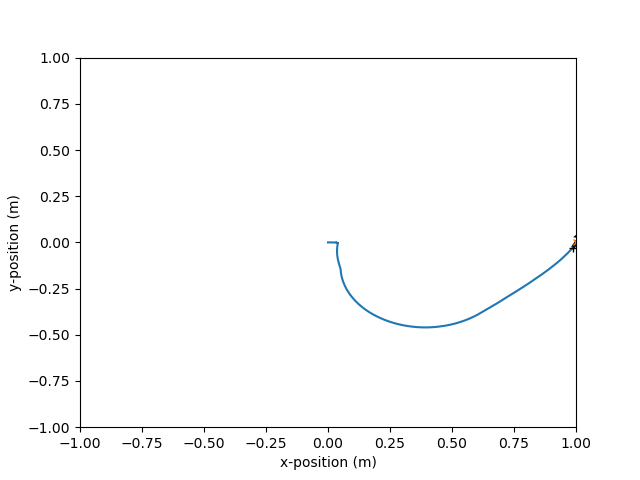
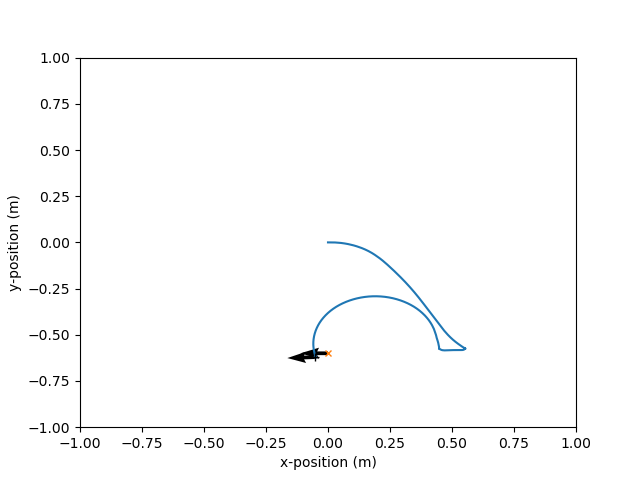
Updated code

diff --git a/Ultrasonic.py b/Ultrasonic.py
@@ -2,9 +2,14 @@
 from gpiozero import DistanceSensor
 
 class UltrasonicSensor:
-    def __init__(self, fe=9, ft=10, re=26, rt=16, le=1, lt=7, bre=0, brt=0, ble=0, blt=0, threshold=20):
-        self.sensor_front = DistanceSensor(echo=fe,trigger=ft)
-        print("front initialised")
+    # def __init__(self, fe=9, ft=10, re=26, rt=16, le=1, lt=7, bre=0, brt=0, ble=0, blt=0, thresholdf=20, thresholdlr=15):
+    def __init__(self, f1e=9, f1t=10, f2e=0, f2t=0, re=26, rt=16, le=1, lt=7, bre=0, brt=0, ble=0, blt=0, thresholdf=20, thresholdlr=15):
+        self.sensor_front1 = DistanceSensor(echo=f1e,trigger=f2t)
+        print("front1 initialised")
+        self.sensor_front2 = DistanceSensor(echo=f1e,trigger=f2t)
+        print("front2 initialised")
+        # self.sensor_front = DistanceSensor(echo=fe,trigger=ft)
+        # print("front initialised")
         self.sensor_fright = DistanceSensor(echo=re, trigger=rt)
         print("right initialised")
         self.sensor_fleft = DistanceSensor(echo=le, trigger=lt)
@@ -12,7 +17,8 @@ class UltrasonicSensor:
         # self.sensor_right = DistanceSensor(bre, brt)
         # self.sensor_left = DistanceSensor(ble, blt)
         # Distance threshold
-        self.threshold = threshold
+        self.thresholdf = thresholdf
+        self.thresholdlr = thresholdlr
         # # Counter to stop noise readings
         # self.counter = counter
         # Tentacle planner function
@@ -20,15 +26,20 @@ class UltrasonicSensor:
         # self.categorized_tentacles = self.tentacle_planner.categorize_tentacles()
         
     # Inside threshold
-    def inside(self, distance): 
-        return distance < self.threshold
+    def inside(self, distance, threshold): 
+        return distance < threshold
     
     # Outside threshold
-    def outside(self, distance):
-        return distance > self.threshold
+    def outside(self, distance, threshold):
+        return distance > threshold
 
-    def front_distance(self):
-        return self.sensor_front.distance * 100
+    # def front_distance(self):
+    #     return self.sensor_front.distance * 100
+    def front1_distance(self):
+        return self.sensor_front1.distance * 100
+    
+    def front2_distance(self):
+        return self.sensor_front2.distance * 100
 
     def fright_distance(self):
         return self.sensor_fright.distance * 100
@@ -43,10 +54,15 @@ class UltrasonicSensor:
         return self.sensor_left.distance * 100
     
     # detect if tentacles are chill, therefore no obstacles, add into array of costs
+
+    def both_front(self, front_dist1, front_dist2, threshold):
+        return (self.outside(front_dist1, threshold) or self.outside(front_dist2, threshold))
     
     def detect_obstacle(self, categorized_tentacles):
         """Returns new required trajectory in order to avoid obstacle as per sensor readings"""
-        front_dist = self.front_distance()
+        front1_dist = self.front1_distance()
+        front2_dist = self.front2_distance()
+        # front_dist = self.front_distance()
         fright_dist = self.fright_distance()
         fleft_dist = self.fleft_distance()
         
@@ -64,36 +80,73 @@ class UltrasonicSensor:
 
         # If distances remain consistently beyond the threshold over several checks
         # if self.counter >= 5:
-        if self.outside(front_dist) and self.outside(fleft_dist) and self.outside(fright_dist):
+        # if self.outside(front_dist, self.thresholdf) and self.outside(fleft_dist, self.thresholdlr) and self.outside(fright_dist, self.thresholdlr):
+        #     # Include all tentacle paths
+        #     print('all')
+        #     avail.extend(categorized_tentacles["left_turning"])
+        #     avail.extend(categorized_tentacles["straight"])
+        #     avail.extend(categorized_tentacles["right_turning"])
+        # elif self.outside(front_dist, self.thresholdf) and self.outside(fleft_dist, self.thresholdlr):
+        #     # Include front and left paths
+        #     print('f+l')
+        #     avail.extend(categorized_tentacles["left_turning"])
+        #     # avail.extend(categorized_tentacles["straight"])
+        # elif self.outside(front_dist, self.thresholdf) and self.outside(fright_dist, self.thresholdlr):
+        #     # Include front and right paths
+        #     print('f+r')
+        #     # avail.extend(categorized_tentacles["straight"])
+        #     avail.extend(categorized_tentacles["right_turning"])
+        # elif self.outside(fleft_dist, self.thresholdlr) and self.outside(fright_dist, self.thresholdlr):
+        #     # Include left and right paths
+        #     print('r+l')
+        #     avail.extend(categorized_tentacles["left_turning"])
+        #     # avail.extend(categorized_tentacles["right_turning"])
+        # elif self.outside(front_dist, self.thresholdf):
+        #     print('f')
+        #     # Include front path
+        #     avail.extend(categorized_tentacles["straight"])
+        # elif self.outside(fleft_dist, self.thresholdlr):
+        #     print('l')
+        #     # Include left path
+        #     avail.extend(categorized_tentacles["left_turning"])
+        # elif self.outside(fright_dist, self.thresholdlr):
+        #     print('r')
+        #     # Include right path
+        #     avail.extend(categorized_tentacles["right_turning"])
+        # else:
+        #     # No clear path, return None
+        #     return None
+
+        if self.both_front(front1_dist, front2_dist, self.thresholdf) and self.outside(fleft_dist, self.thresholdlr) and self.outside(fright_dist, self.thresholdlr):
             # Include all tentacle paths
             print('all')
             avail.extend(categorized_tentacles["left_turning"])
             avail.extend(categorized_tentacles["straight"])
             avail.extend(categorized_tentacles["right_turning"])
-        elif self.outside(front_dist) and self.outside(fleft_dist):
+        elif self.both_front(front1_dist, front2_dist, self.thresholdf) and self.outside(fleft_dist, self.thresholdlr):
             # Include front and left paths
             print('f+l')
             avail.extend(categorized_tentacles["left_turning"])
             # avail.extend(categorized_tentacles["straight"])
-        elif self.outside(front_dist) and self.outside(fright_dist):
+        elif self.both_front(front1_dist, front2_dist, self.thresholdf) and self.outside(fright_dist, self.thresholdlr):
             # Include front and right paths
             print('f+r')
             # avail.extend(categorized_tentacles["straight"])
             avail.extend(categorized_tentacles["right_turning"])
-        elif self.outside(fleft_dist) and self.outside(fright_dist):
+        elif self.both_front(front1_dist, front2_dist, self.thresholdf) and self.outside(fright_dist, self.thresholdlr):
             # Include left and right paths
             print('r+l')
             avail.extend(categorized_tentacles["left_turning"])
             # avail.extend(categorized_tentacles["right_turning"])
-        elif self.outside(front_dist):
+        elif self.both_front(front1_dist, front2_dist, self.thresholdf):
             print('f')
             # Include front path
             avail.extend(categorized_tentacles["straight"])
-        elif self.outside(fleft_dist):
+        elif self.outside(fleft_dist, self.thresholdlr):
             print('l')
             # Include left path
             avail.extend(categorized_tentacles["left_turning"])
-        elif self.outside(fright_dist):
+        elif self.outside(fright_dist, self.thresholdlr):
             print('r')
             # Include right path
             avail.extend(categorized_tentacles["right_turning"])

diff --git a/main.py b/main.py
@@ -61,6 +61,8 @@ def main(goals):
         goal_x, goal_y, goal_th = goal  # NEEDS CHANGING
         while True:
 
+            print(us.f1_distance())
+            print(us.f2_distance())
             print(us.front_distance())
             print(us.fleft_distance())
             print(us.fright_distance())
@@ -98,11 +100,31 @@ def main(goals):
             print(f'pose: {poses[-1]}')
             print(f'duty_cycle: {duty_cycle_commands[-1]}')
 
-            if abs(x-goal_x)<0.03 and abs(y-goal_y) < 0.03: # and abs(th-goal_th) < 0.03:
+            if abs(x-goal_x)<0.05 and abs(y-goal_y) < 0.05: # and abs(th-goal_th) < 0.03:
                 motor_l.stop()
                 motor_r.stop()
                 print('arrived')
-                time.sleep(5)
+                time.sleep(3)
+                while abs(th+goal_th) > 0.05:
+                    old_encoder_l = motor_l.encoder.steps
+                    old_encoder_r = motor_r.encoder.steps
+                    old_time = time.time()
+                    time.sleep(0.1)
+                    elapsed_time = time.time()-old_time
+                    angular_velocity_l = 2 * math.pi * ((motor_l.encoder.steps-old_encoder_l)/960)/elapsed_time
+                    angular_velocity_r = 2 * math.pi * ((motor_r.encoder.steps-old_encoder_r)/960)/elapsed_time
+                    robot.wl = angular_velocity_l
+                    robot.wr = angular_velocity_r
+                    x, y, th = robot.pose_update(
+                    [angular_velocity_l, angular_velocity_r])  # NEED TO FIX
+                    motor_l.drive(-0.15)
+                    motor_r.drive(0.15)
+                    print(f'pose: {poses[-1]}')
+                    poses.append([x, y, th])
+                    print(f'diff {abs(th+goal_th)}')
+                motor_l.stop()
+                motor_r.stop()
+
                 break
 
     plt.plot(np.array(poses)[:,0],np.array(poses)[:,1])
@@ -142,5 +164,6 @@ if __name__ == "__main__":
     # parser.add_argument("--th", type=float, default=0)
     # args, _ = parser.parse_known_args
     # main([[0.6,-0.6,3*math.pi/2],[0,-0.6,3*math.pi/2]])
-    main([[1,0,0]])
+    main([[0.6,-0.6,math.pi],[0,-0.6,math.pi]])
+    # main([[0.6,0,0]])
 

diff --git a/Classes.py b/Classes.py
@@ -113,7 +113,7 @@ class TentaclePlanner:
         self.steps = steps
         # Tentacles are possible trajectories to follow
         # self.tentacles = [(0.0,0.5),(0.0,-0.5),(0.1,1.0),(0.1,-1.0),(0.1,0.5),(0.1,-0.5),(0.1,0.0),(0.0,0.0)]
-        self.tentacles = [(0.0,-0.51),(0.0,0.51),(0.1,0.0),(0.1,0.5),(0.1,-0.5)]
+        self.tentacles = [(0.0,-0.51),(0.0,0.51),(0.1,0.0),(0.1,0.5),(0.1,-0.5),(0.1,0.35),(0.1,-0.3),(0.1,0.2),(0.1,-0.2),(0.1,0.4),(0.1,-0.4)]
         # v,w - (turning in intended direction)
         self.alpha = alpha
         self.beta = beta

diff --git a/test_ultrasonic.py b/test_ultrasonic.py
@@ -4,10 +4,12 @@ from time import sleep
 sensor_l = DistanceSensor(echo=1, trigger=7)
 sensor_m = DistanceSensor(echo=9, trigger=10)
 sensor_r = DistanceSensor(echo=26, trigger=16)
+sensor_new_m = DistanceSensor(echo=15, trigger = 14)
 while True:
     print('Distance_L: ', sensor_l.distance * 100)
     print('Distance_M: ', sensor_m.distance * 100)
     print('Distance_R: ', sensor_r.distance * 100)
+    print('Distance_M_new: ', sensor_new_m.distance * 100)
     sleep(0.1)
     
 
